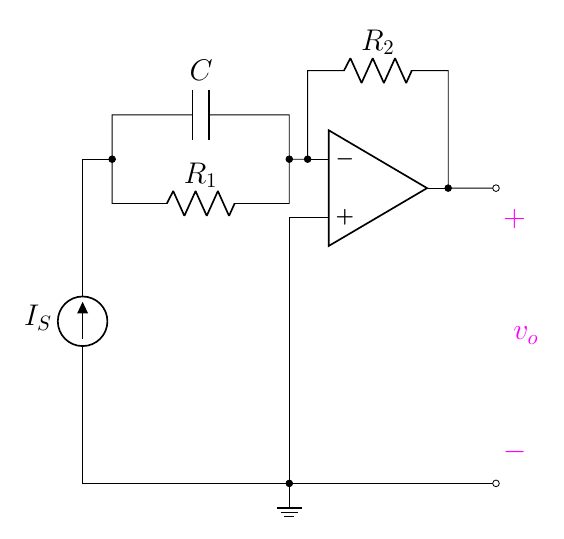
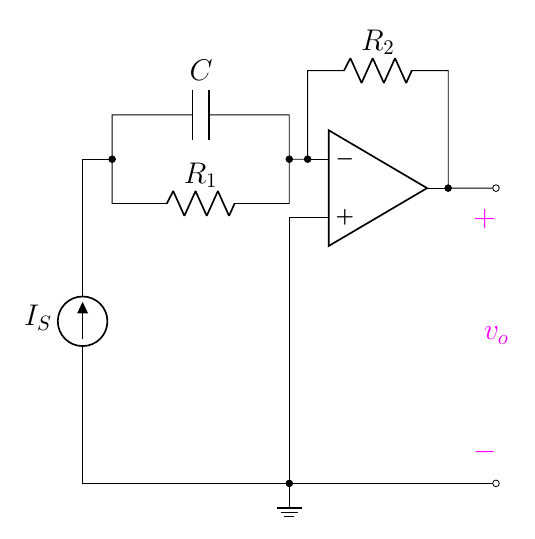
add 7.74

diff --git a/2.5 First-Order Op Amp/7.7 First Order Op-Amp Circuit/7.74(new).tex b/2.5 First-Order Op Amp/7.7 First Order Op-Amp Circuit/7.74(new).tex
@@ -36,7 +36,7 @@
 
     %%% find %%%
     % \node at(1.5,5.1) []{$t=0$};
-    \draw[magenta](7,5)  
+    \draw[magenta](6.5,5)  
         to[open,v^=$v_o$] ++(0,-5);
 
     % \draw[magenta](2,5.2)  
